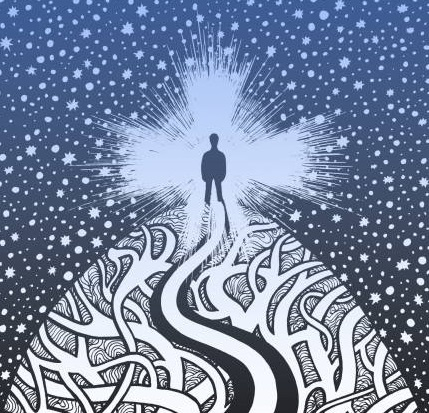
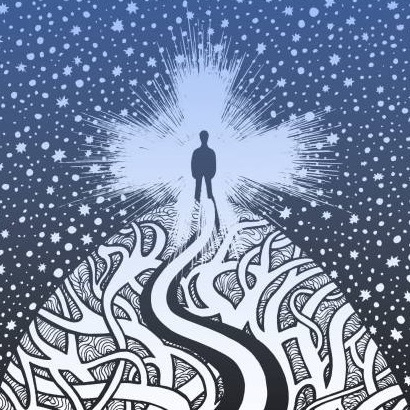
Change border of images

diff --git a/assets/css/styles.css b/assets/css/styles.css
@@ -503,7 +503,7 @@ footer {
     height:70vw;
     border-radius: 50%;
     background-color: var(--SKY);
-    padding: 5px;
+    padding: 3px;
     margin: 0 auto 0 auto;
 }
 
@@ -517,6 +517,8 @@ footer {
 #self-enquiry-list {
     background-color: var(--CARBON);
     border-radius: 10px;
+    border: 2px solid white;
+    box-shadow: 0px 6px 12px rgba(0, 0, 0, 0.2);
 }
 
 #self-enquiry-list p {
@@ -546,7 +548,7 @@ footer {
 .waves-image-border {
     width: 70vw;
     height: 70vw;
-    padding: 5px;
+    
     background-color: var(--SKY);
     border-radius: 10px;
     margin: 0 auto;
@@ -569,10 +571,9 @@ footer {
 }
 
 .display-card {
-    background-color: var(--SKY);
+    background-color: var(--CARBON);
     width: 80%;
     border-radius: 10px;
-    padding: 5px;
     text-align: center;
     margin: 0 auto;
 }
@@ -589,7 +590,7 @@ footer {
     padding: 10px;
     border-radius: 0px 0px 10px 10px;
     font-size: 80%;
-    height: 50px; 
+    height: 50px;
 }
 
 .reduce-font-size {
@@ -613,17 +614,10 @@ footer {
 
 /* Retreats section */
 
-.retreat-image-border {
-    width: 80%;
+.retreat-image img {
+    width: 70vw;
     border-radius: 10px;
-    background-color: var(--SKY);
-    padding: 5px;
     margin: 0 auto 20px auto;
-}
-
-.retreat-image-border img {
-    width: 100%;
-    border-radius: 10px;
 }
 
 /* Maps of enlightenment section */
@@ -640,7 +634,7 @@ footer {
     width: 125px;
     height: 125px;
     border-radius: 50%;
-    padding: 5px;
+    padding: 3px;
     margin: 0 5px 0 5px;
 }
 
@@ -677,7 +671,7 @@ footer {
     width: 125px;
     height: 125px;
     border-radius: 50%;
-    padding: 5px;
+    padding: 3px;
     background-color: var(--SKY);
     margin-left: 5px;
 }

diff --git a/resources.html b/resources.html
@@ -126,7 +126,7 @@
                 Wherever your location, there is probably a meditation retreat nearby. <a href="https://www.dhamma.org/en-US/index" target="_blank">Dhamma.org</a> has locations in most countries where you can go on a 10 day retreat or silence. In these retreats you go through various sitting, standing and walking meditations and spend your 10 days in complete silence. These retreats can enhance your spiritual work tenfold and serious self-knowledge can be achieved
             </p>
 
-            <div class="retreat-image-border">
+            <div class="retreat-image">
                 <img src="assets/images/group-meditation-retreats-resources.webp" alt="group meditation" id="group-meditation-image">
             </div>           
         </div>
